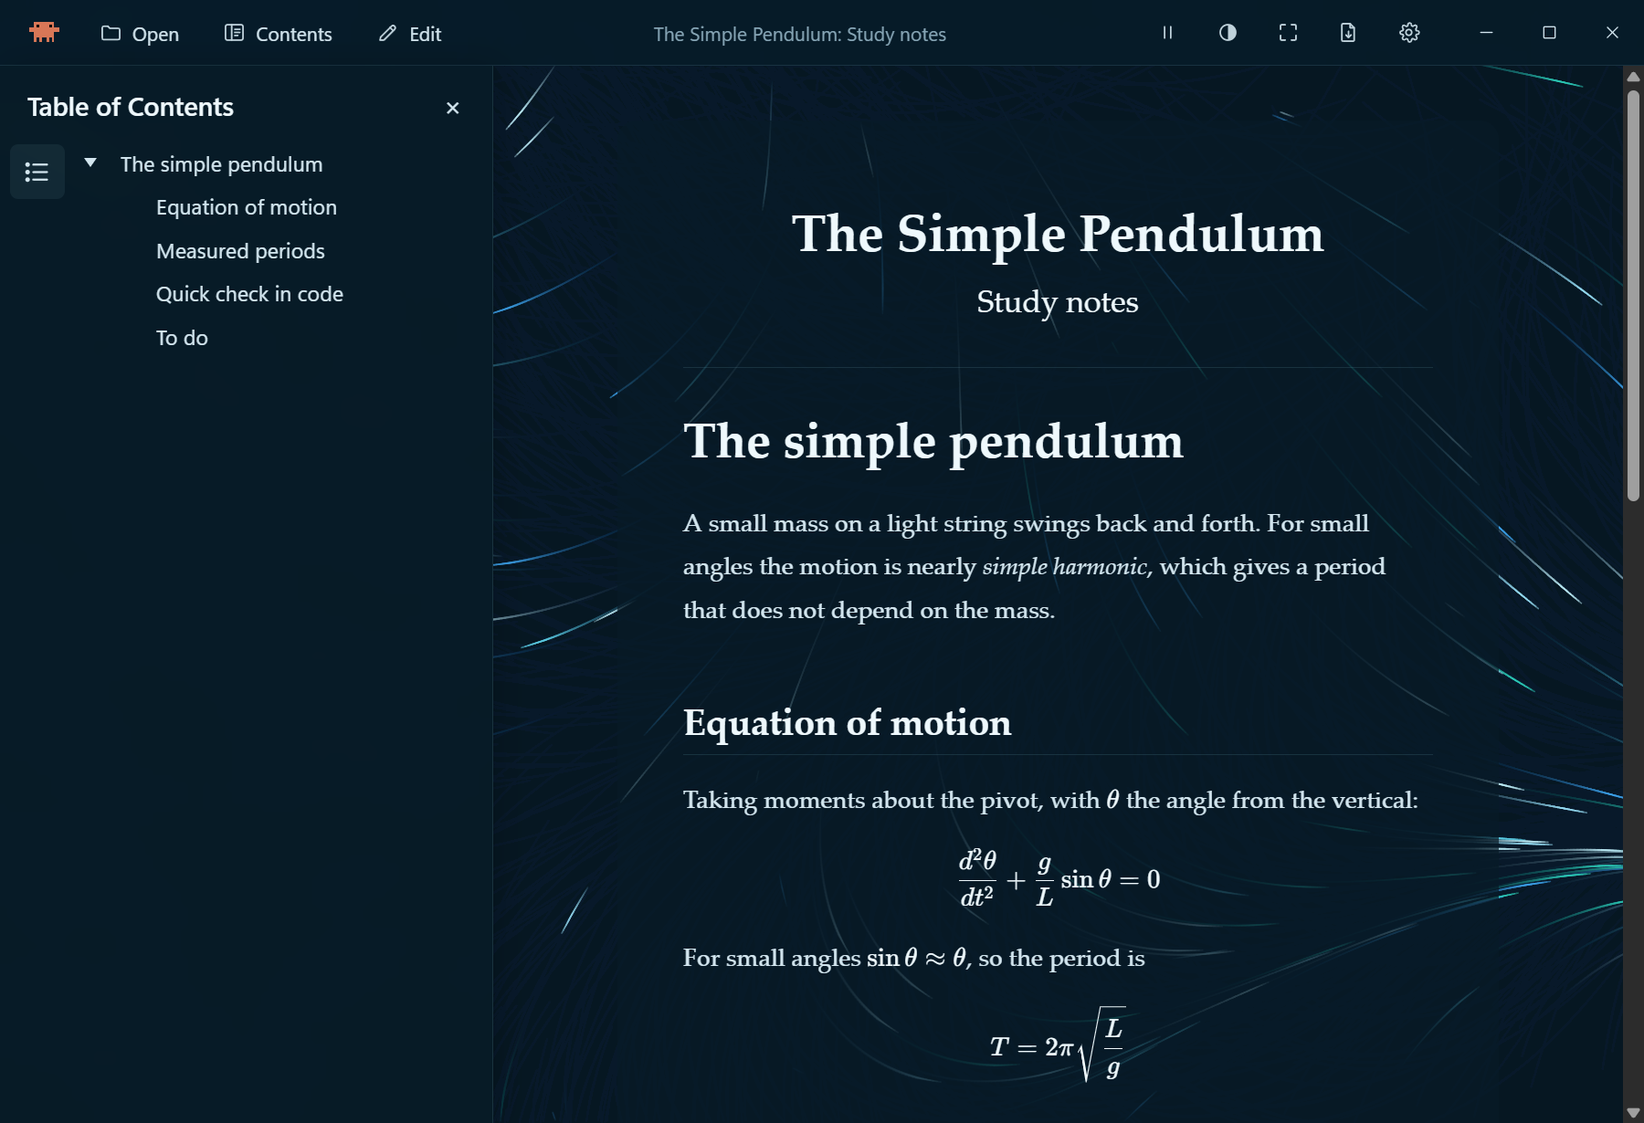
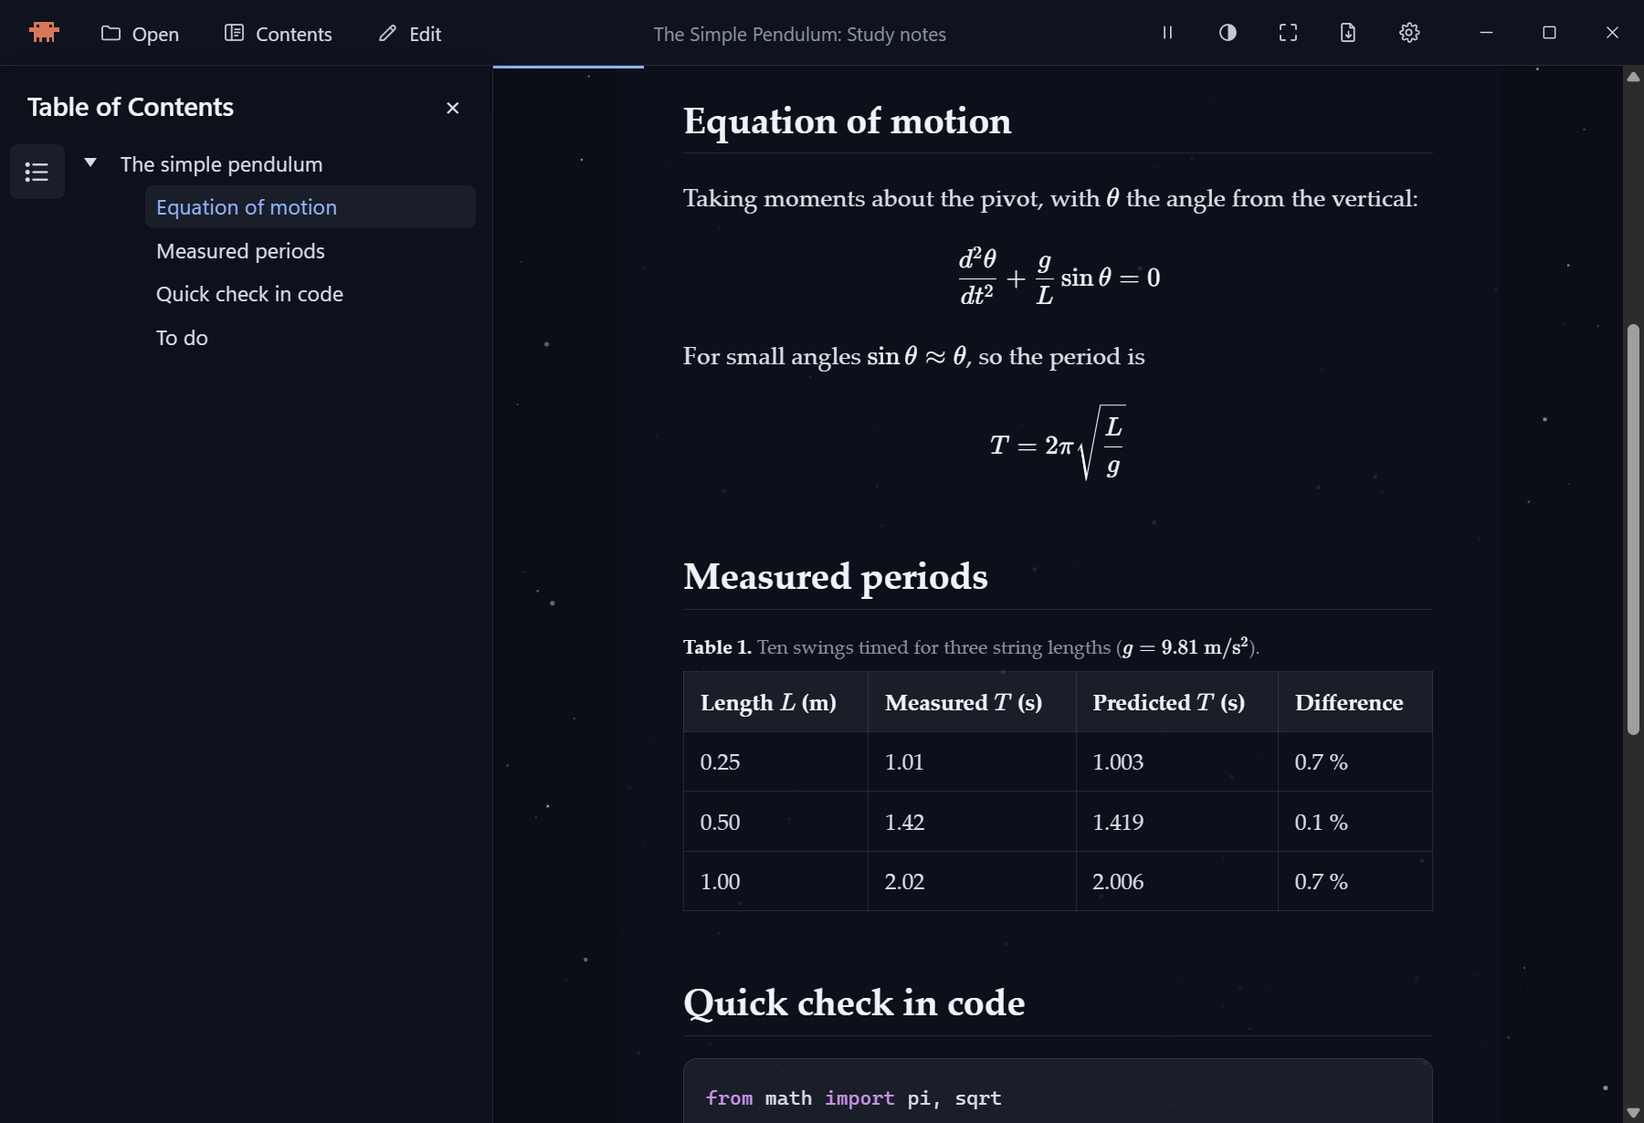
README: product page layout with a screenshot gallery
New screenshots from the 0.5.0 build (paper themes, diagrams, callouts,
contents sidebar, settings); quick links under the title; download table;
theme and Markdown support tables; contributing section and changelog link.

diff --git a/README.md b/README.md
@@ -6,7 +6,8 @@
 
 <p align="center">
   <b>A calm place to read Markdown.</b><br />
-  Your notes on a quiet reading column, with a live wallpaper drifting behind them.
+  A small, offline Windows app for study notes, docs and books written in Markdown,<br />
+  with maths, diagrams, paper-like themes and an optional live wallpaper behind the page.
 </p>
 
 <p align="center">
@@ -15,34 +16,178 @@
 
 <p align="center">
   <a href="https://github.com/Shanu-vs/clawd-reader/releases/latest"><img src="https://img.shields.io/github/v/release/Shanu-vs/clawd-reader?label=version&color=8fb4ff" alt="Latest version" /></a>
+  <a href="https://github.com/Shanu-vs/clawd-reader/releases"><img src="https://img.shields.io/github/downloads/Shanu-vs/clawd-reader/total?color=f0a060" alt="Downloads" /></a>
   <img src="https://img.shields.io/badge/Windows-10%20%7C%2011-0078d4" alt="Windows 10 and 11" />
   <img src="https://img.shields.io/badge/works-offline-6fc58a" alt="Works offline" />
   <a href="LICENSE"><img src="https://img.shields.io/badge/license-MIT-a986ff" alt="MIT licence" /></a>
-  <a href="https://github.com/Shanu-vs/clawd-reader/releases"><img src="https://img.shields.io/github/downloads/Shanu-vs/clawd-reader/total?color=f0a060" alt="Downloads" /></a>
 </p>
 
 <p align="center">
-  <img src="docs/screenshots/starfield.png" width="860" alt="MD Reader showing the welcome page over a starfield" />
+  <a href="#download">Download</a> ·
+  <a href="#a-look-around">Screenshots</a> ·
+  <a href="#features">Features</a> ·
+  <a href="#markdown-support">Markdown support</a> ·
+  <a href="#is-it-safe">Is it safe?</a> ·
+  <a href="#faq">FAQ</a> ·
+  <a href="CHANGELOG.md">Changelog</a> ·
+  <a href="https://github.com/Shanu-vs/clawd-reader/issues/new/choose">Report a bug</a>
+</p>
+
+<p align="center">
+  <img src="docs/screenshots/starfield.png" width="880" alt="MD Reader showing the welcome page over a drifting starfield" />
 </p>
 
 ## Why MD Reader?
 
-- **Made for long reading.** Study notes, documentation, books written in Markdown. Maths, figures, tables and a PDF-style contents sidebar all just work.
-- **Calm to look at.** A starfield, fireflies, slow currents, rain on a pond, or a pixel-art world where **Claw'd** the crab wanders between places. It reacts when you click, and pauses whenever you want.
-- **Tiny and quick.** A small (about 4 MB) installer that opens instantly. It uses the WebView2 already built into Windows instead of shipping a whole browser, so it stays light on memory and battery.
-- **Yours, offline.** No account, no sign-in, no internet needed. Your files stay on your computer.
-- **Easy on the eyes.** 27 themes: calm plain colours, real paper looks (notebook, parchment, graph paper…), warm low-blue-light, true-black OLED and High Contrast.
+- **Made for long reading.** Maths, figures, tables, diagrams and a PDF-style contents sidebar all just work, so study notes and documentation read like a finished book.
+- **Calm to look at.** Choose real paper (notebook, parchment, blueprint…), a plain colour, or a gentle live wallpaper: a starfield, fireflies, slow currents, rain on a pond, or a pixel-art world where **Claw'd** the crab wanders between places.
+- **Small and quick.** A 4 MB installer that opens instantly. It uses the WebView2 engine already built into Windows instead of shipping a whole browser, so it stays light on memory and battery.
+- **Private and offline.** No account, no sign-in, no tracking, no internet needed. Your files stay on your computer.
+- **Easy on the eyes.** 27 themes, including warm low-blue-light, true-black OLED and High Contrast.
 
-## Install
+## A look around
 
-1. **[Download the latest `MD-Reader_…_x64-setup.exe`](https://github.com/Shanu-vs/clawd-reader/releases/latest)** from the Releases page.
-2. Double-click it. If Windows says *"Windows protected your PC"*, click **More info → Run anyway**. (The app isn't code-signed yet; signing certificates cost money, so many small open-source apps show this.)
-3. Click through the setup. No admin rights needed.
-4. Find **MD Reader** in the Start menu or Windows search.
+<table>
+  <tr>
+    <td width="50%"><img src="docs/screenshots/paper-notebook.png" alt="Study notes on the Notebook paper theme, with ruled lines and a red margin" /></td>
+    <td width="50%"><img src="docs/screenshots/paper-parchment.png" alt="A table and equations on the Parchment paper theme" /></td>
+  </tr>
+  <tr>
+    <td align="center"><b>Notebook paper</b>, one of nine paper types</td>
+    <td align="center"><b>Parchment</b> with maths and a captioned table</td>
+  </tr>
+  <tr>
+    <td><img src="docs/screenshots/diagrams-light.png" alt="A flowchart and a sequence diagram drawn from Mermaid code" /></td>
+    <td><img src="docs/screenshots/callouts.png" alt="Note, tip, important, warning and caution callouts" /></td>
+  </tr>
+  <tr>
+    <td align="center"><b>Diagrams</b> from Mermaid code, drawn offline</td>
+    <td align="center"><b>Callouts</b> as in GitHub and Obsidian</td>
+  </tr>
+  <tr>
+    <td><img src="docs/screenshots/study-notes.png" alt="The contents sidebar next to study notes on the Night theme" /></td>
+    <td><img src="docs/screenshots/pixel-world.png" alt="The pixel world wallpaper with Claw'd on a beach" /></td>
+  </tr>
+  <tr>
+    <td align="center"><b>Contents sidebar</b> that follows your place</td>
+    <td align="center"><b>Pixel world</b>, where Claw'd travels between six places</td>
+  </tr>
+  <tr>
+    <td><img src="docs/screenshots/paper-blueprint.png" alt="Code and a table on the Blueprint paper theme" /></td>
+    <td><img src="docs/screenshots/plain-settings.png" alt="The settings panel showing the Plain theme colours" /></td>
+  </tr>
+  <tr>
+    <td align="center"><b>Blueprint</b>, a dark paper theme</td>
+    <td align="center"><b>Settings</b> with the nine Plain colours</td>
+  </tr>
+</table>
+
+## Download
+
+| Platform | Download | Notes |
+| --- | --- | --- |
+| **Windows 10 / 11** (64-bit) | [**MD Reader setup (.exe)**](https://github.com/Shanu-vs/clawd-reader/releases/latest) | 4 MB, installs for your user only, no admin rights |
+| macOS, Linux | Not yet | The app is built with Tauri, so these are possible later |
+
+**Install**
+
+1. Download `MD-Reader_…_x64-setup.exe` from the [latest release](https://github.com/Shanu-vs/clawd-reader/releases/latest).
+2. Run it. If Windows says *"Windows protected your PC"*, choose **More info → Run anyway**. The installer isn't code-signed yet; see [Is it safe?](#is-it-safe).
+3. Click through the setup, then find **MD Reader** in the Start menu or Windows search.
 
 **Open `.md` files with a double-click:** right-click any `.md` file → **Open with → Choose another app → MD Reader**, and tick **Always**.
 
-To uninstall: **Settings → Apps → Installed apps → MD Reader → Uninstall**.
+**Update:** run the newer setup file. It replaces the old version and keeps your settings.
+
+**Uninstall:** **Settings → Apps → Installed apps → MD Reader → Uninstall**.
+
+## Features
+
+### Reading
+- Open files with the **Open** button, a **double-click in Explorer**, by dragging a file onto the window, or paste Markdown with `Ctrl+V`.
+- A **contents sidebar** like a PDF viewer's: collapsible chapters that follow your place, and a Figures tab with thumbnails.
+- **Links between notes**: `[[wiki links]]` and links to other `.md` files open that note; **Alt + ←** goes back.
+- The page **fits the window** (adjustable width), with an optional comfortable line length.
+- Reading time, a progress bar, and your last document and scroll position remembered.
+- **Export to PDF**: clean pages without the wallpaper, each chapter on a new page.
+
+### Editing
+- Documents always open for reading. Press **Edit** and the page becomes its Markdown source.
+- **Save**, **Save as…** and **Stop editing**, with a warning before unsaved changes would be lost.
+- Saving is safe: the app writes to a temporary file first and keeps your file's line endings.
+
+### Themes
+
+| Family | Variations |
+| --- | --- |
+| **Plain**: flat colour, no moving background | White, Sepia, Sage, Rose, Sky, Lavender, Peach, Stone, Charcoal |
+| **Paper**: real paper looks | Notebook, Legal pad, Graph, Dot grid, Parchment, Kraft, Newsprint, Watercolour, Blueprint |
+| **Night**: dark, with a starfield | Indigo, Ocean, Forest, Purple, Ember (low blue light), Graphite, OLED (true black) |
+| **Pixel Quest** | A chunky retro-game look with a pixel font |
+| **High Contrast** | Maximum legibility |
+
+A one-click light/dark switch (`T`) remembers your favourite of each.
+
+### Live wallpapers
+
+Each wallpaper has its own settings and colour palettes (Warm white, Moonlight, Aurora, Deep sea, Sunset, Ember, Lavender, Meadow, or your own colour).
+
+| Wallpaper | Click | Double-click | Press and hold |
+| --- | --- | --- | --- |
+| **Starfield**: drifting, twinkling stars and shooting stars | Ripple | Supernova | Gravity well (let go to slingshot) |
+| **Fireflies**: warm tones, different sizes, slow blinking | Scatter | They all light up | They gather and circle you |
+| **Flowing currents**: slow, soft trails | Swirl | A wide, slow whirlpool | Drag to stir the water |
+| **Rain ripples**: rings spreading on a pond | Splash | A short thunder shower | Rest a finger in the water |
+| **Pixel world**: Claw'd travels through six places | Claw'd hops | Fireworks, and Claw'd waves | Magic dust follows you |
+
+The pixel world visits Green Meadow, Sunny Beach, Snowy Peaks, Desert Canyon, Autumn Woods and Under the Sea. It moves on every 30 minutes (adjustable) with a smooth crossfade, and its sky follows your clock.
+
+### Comfortable to use
+- A **pause button** for the moving background (`W`), and the app follows Windows' "reduce animations" setting.
+- **Focus mode** calms the wallpaper and hides the toolbar until you need it.
+- A frame-rate cap (15–60 fps). The wallpaper pauses when minimised and slows while you scroll.
+- **Right-click** anywhere for a quick menu: theme, wallpaper, text size, page width and more.
+
+## Markdown support
+
+Everything in CommonMark and GitHub Flavored Markdown (tables, task lists, strikethrough, autolinks), plus:
+
+| Format | How to write it |
+| --- | --- |
+| **Maths** (KaTeX) | `$a^2+b^2=c^2$`, `$$ … $$`, numbered `$$[3.5]`, or a ` ```math ` block |
+| **Chemistry** | `$\ce{CO2 + H2O <=> H2CO3}$` |
+| **Diagrams** (Mermaid) | A ` ```mermaid ` block: flowcharts, sequence diagrams, timelines, mind maps, Gantt and pie charts |
+| **Callouts** | `> [!NOTE]`, `[!TIP]`, `[!IMPORTANT]`, `[!WARNING]`, `[!CAUTION]` (and Obsidian's names); add `-` or `+` to make them foldable |
+| **Wiki links** | `[[Note]]`, `[[Note#Heading]]`, `[[Note\|label]]`; `![[picture.png]]` shows a picture |
+| **Footnotes** | `text[^1]` and `[^1]: the note` |
+| **Highlight, sub- and superscript** | `==highlight==`, `H~2~O`, `x^2^` |
+| **Definition lists** | `Term` on one line, `: meaning` on the next |
+| **Emoji** | `:rocket:` → 🚀 |
+| **Front matter** | A `---` block at the top (Obsidian, Jekyll, Hugo) is hidden; its `title:` is used |
+| **Figures** | An image alone in a paragraph becomes a numbered figure; its alt text is the caption, and `{width=70}` sets the size |
+| **Table captions** | A `Table: …` line just above a table |
+| **Title block** | `% title:`, `% subtitle:` and `% author:` lines at the top |
+| **Page breaks** | `\newpage` on its own line (for PDF export) |
+
+Pictures next to your file load straight from disk. Code blocks are syntax-highlighted.
+
+**Try it:** download [`docs/formats.md`](docs/formats.md) (a tour of every format) or [`docs/sample.md`](docs/sample.md) (short study notes) and open them in the app.
+
+## Keyboard shortcuts
+
+| Key | Action |
+| --- | --- |
+| `O` / `Ctrl+O` | Open a file |
+| `E` | Edit the document |
+| `Ctrl+S` / `Ctrl+Shift+S` | Save / Save as (while editing) |
+| `Esc` | Stop editing, or close panels |
+| `C` | Contents sidebar |
+| `S` / `Ctrl+,` | Settings |
+| `T` | Switch light / dark |
+| `F` | Focus mode |
+| `W` | Pause or play the background |
+| `P` / `Ctrl+P` | Export to PDF |
+| `Alt+←` | Back to the previous note |
 
 ## Is it safe?
 
@@ -61,97 +206,17 @@ That blue *"Windows protected your PC"* screen is fair to worry about, so here i
 - It has no account, no ads, no analytics and no auto-updater. The app is locked so it **can't send data anywhere** (its content security policy blocks all network requests). The only things it may download are pictures that your own document links to on the web.
 - It installs just for your user, with no admin rights, and the uninstaller removes it. Tick *"Delete the application data"* there to remove your settings too.
 
-## Screenshots
-
-| Pixel world (Pixel Quest theme) | Study notes with the contents panel |
-| --- | --- |
-| <img src="docs/screenshots/pixel-world.png" alt="Pixel world wallpaper with Claw'd on a beach" /> | <img src="docs/screenshots/study-notes.png" alt="Study notes with maths and the contents sidebar" /> |
-
-| Light theme with settings docked |
-| --- |
-| <img src="docs/screenshots/light-settings.png" width="640" alt="Plain Sage theme with the settings panel docked on the right" /> |
-
-## Features
-
-### Reading
-- Open with the **Open** button, a **double-click in Explorer**, drag a file onto the window, or paste Markdown with `Ctrl+V`.
-- **Maths** with KaTeX: `$inline$` and `$$ display $$` equations, with optional numbers like `$$[3.5]`.
-- **Numbered figures** from images that sit alone in a paragraph. The alt text becomes the caption, and `{width=70}` sets the size. Pictures next to the file load straight from disk.
-- **Table captions** with a `Table: …` line above a table, plus a **title block** from `% title:` / `% subtitle:` lines.
-- Syntax-highlighted code, task lists, block quotes, reading time and a progress bar.
-- **Diagrams** with Mermaid: flowcharts, sequence diagrams, timelines, mind maps, Gantt and pie charts. They follow your light or dark theme and work offline.
-- **Callouts** like GitHub and Obsidian: `> [!NOTE]`, `[!TIP]`, `[!IMPORTANT]`, `[!WARNING]`, `[!CAUTION]`, foldable with `+` / `-`.
-- **Footnotes**, ==highlights== (`==text==`), H~2~O-style subscripts and x^2^ superscripts, definition lists and `:emoji:` codes.
-- **Chemistry** with `$\ce{H2O}$`, and GitHub-style ` ```math ` blocks.
-- **Front matter** (the `---` block at the top of Obsidian, Jekyll and Hugo notes) is hidden, and its title is used.
-- **Wiki links**: `[[Other note]]`, `[[Note#Heading]]` and links to other `.md` files open that note; **Alt + ←** goes back. `![[picture.png]]` shows a picture.
-- **Contents panel** like a PDF viewer's sidebar: collapsible chapters that follow your place, and a Figures tab with thumbnails.
-- The page **fits the window** (adjustable width), with an optional comfortable line length.
-- Your last document and scroll position are remembered.
-
-### Editing
-- Documents always open for reading. Press **Edit** and the page becomes its Markdown source.
-- The button becomes **Save**, and its ▾ menu has **Save as…** and **Stop editing**.
-- Saving is safe: it writes to a temporary file first and keeps your file's line endings.
-- The app warns you before unsaved changes would be lost.
-
-### Themes
-- **Plain**: calm flat colours with no moving background, in White, Sepia, Sage, Rose, Sky, Lavender, Peach, Stone and Charcoal.
-- **Paper**: real paper looks, in Notebook (ruled with a red margin), Legal pad, Graph, Dot grid, Parchment, Kraft, Newsprint, Watercolour and Blueprint.
-- **Night**, in Indigo, Ocean, Forest, Purple, Ember (warm, low blue light), Graphite and **OLED** (true black, easy on battery and eyes at night).
-- **Pixel Quest**: a chunky retro-game look with a pixel font.
-- **High Contrast**.
-- A one-click light/dark switch remembers your favourite of each.
-
-### Live wallpapers
-Each one has its own settings and colour palettes (Warm white, Moonlight, Aurora, Deep sea, Sunset, Ember, Lavender, Meadow, or your own colour).
-
-| Wallpaper | Click | Double-click | Press and hold |
-| --- | --- | --- | --- |
-| **Starfield**: drifting, twinkling stars and shooting stars | Ripple | Supernova | Gravity well (let go to slingshot) |
-| **Fireflies**: warm tones, different sizes, slow blinking | Scatter | They all light up | They gather and circle you |
-| **Flowing currents**: slow, soft trails | Swirl | A wide, slow whirlpool | Drag to stir the water |
-| **Rain ripples**: rings spreading on a pond | Splash | A short thunder shower | Rest a finger in the water |
-| **Pixel world**: Claw'd travels through six places | Claw'd hops | Fireworks, and Claw'd waves | Magic dust follows you |
-
-The pixel world has six places: Green Meadow, Sunny Beach, Snowy Peaks, Desert Canyon, Autumn Woods and Under the Sea. It moves on every 30 minutes (adjustable) with a smooth crossfade, and the sky follows your clock.
-
-### Comfortable to use
-- A **pause button** for the moving background (`W`). The app also follows Windows' "reduce animations" setting.
-- **Focus mode** calms the wallpaper and hides the toolbar until you need it.
-- A frame-rate cap (15–60 fps). The wallpaper pauses when minimised and slows while you scroll.
-- **Right-click** anywhere for a quick menu: theme, wallpaper, text size, page width and more.
-- The toolbar is the window's title bar, with Windows-style controls.
-- **Export to PDF**: clean pages without the wallpaper, each chapter on a new page.
-
-## Keyboard shortcuts
-
-| Key | Action |
-| --- | --- |
-| `O` / `Ctrl+O` | Open a file |
-| `E` | Edit the document |
-| `Ctrl+S` / `Ctrl+Shift+S` | Save / Save as (while editing) |
-| `Esc` | Stop editing, or close panels |
-| `C` | Contents panel |
-| `S` / `Ctrl+,` | Settings |
-| `T` | Switch light / dark |
-| `F` | Focus mode |
-| `W` | Pause or play the background |
-| `P` / `Ctrl+P` | Export to PDF |
-
-## Try the sample
-
-[`docs/sample.md`](docs/sample.md) is a short set of study notes that shows off maths, a captioned table, code and a task list. [`docs/formats.md`](docs/formats.md) is a tour of every format above: diagrams, callouts, footnotes, chemistry and more. Download them and open them in the app.
-
 ## FAQ
 
 **Is it free?** Yes, and open source under the [MIT licence](LICENSE).
 
 **Mac or Linux?** Windows 10 and 11 only for now.
 
-**Why does Windows warn me when installing?** The installer isn't code-signed, so SmartScreen doesn't recognise it yet. See [Is it safe?](#is-it-safe) for the virus scan and how to check the file.
-
 **Does it need the internet?** No. It only loads pictures from the web if your document links to them.
+
+**Can I edit notes, or only read them?** Both. Notes open for reading; press **Edit** to change the Markdown and **Save** when you're done.
+
+**Does it work with my Obsidian vault?** Yes for reading: callouts, wiki links, picture embeds and front matter all work. Wiki links look for the note in the same folder as the open note (or the path you write, like `[[folder/Note]]`).
 
 **Windows 10 says something about WebView2.** Windows 11 already has it. On an older Windows 10, the installer downloads it for you.
 
@@ -159,12 +224,16 @@ The pixel world has six places: Green Meadow, Sunny Beach, Snowy Peaks, Desert C
 
 - [x] Open `.md` files by double-clicking them in Explorer
 - [x] Ready-made installer on the Releases page
+- [x] Diagrams, callouts, footnotes and wiki links
+- [ ] Diagram colours that match each theme
 - [ ] Reload automatically when the file changes on disk
 - [ ] Recent files
 - [ ] Find in document (`Ctrl+F`)
 - [ ] Gentle ambient sounds to match each wallpaper
 
-Ideas and bug reports are welcome in [Issues](https://github.com/Shanu-vs/clawd-reader/issues).
+## Contributing
+
+Bug reports and ideas are very welcome. Please use the [issue forms](https://github.com/Shanu-vs/clawd-reader/issues/new/choose); a screenshot and the Markdown that caused a problem help a lot. Pull requests are welcome too: for anything bigger than a small fix, open an issue first so we can agree on the approach. Changes between versions are listed in the [changelog](CHANGELOG.md).
 
 ## For developers
 
@@ -209,11 +278,12 @@ The setup file appears in `src-tauri/target/release/bundle/nsis/`.
 
 ```
 src/
-  main.ts                 app wiring: documents, toolbar, shortcuts, drag & drop, window
-  markdown.ts             Markdown -> safe HTML: maths, figures, captions, task lists
+  main.ts                 app wiring: documents, toolbar, shortcuts, links between notes, window
+  markdown.ts             Markdown -> safe HTML: maths, figures, callouts, wiki links, front matter
+  diagrams.ts             Mermaid diagrams, loaded only when a document has one
   desktop.ts              desktop-only helpers: open/save dialogs, reading and writing files
   settings.ts             typed settings with defaults, saved locally
-  themes.ts               theme families and their colour variations
+  themes.ts               theme families, colour variations and paper textures
   ui/
     editor.ts             edit mode, Save / Save as
     contents.ts           contents sidebar (chapters and figures)
@@ -229,7 +299,7 @@ src/
     pixel/                the pixel world: places, scenery, weather and Claw'd
   styles/                 app, Markdown and print (PDF) styles
 src-tauri/                desktop wrapper (Rust): file access, window, installer
-docs/                     sample document and screenshots
+docs/                     sample notes, formats tour and screenshots
 ```
 
 </details>
@@ -242,4 +312,4 @@ docs/                     sample document and screenshots
 
 Claw'd, the Claude crab, is Anthropic's character. This is an unofficial, fan-made project and is not affiliated with or endorsed by Anthropic.
 
-Built with [Tauri](https://tauri.app), [Vite](https://vite.dev), [markdown-it](https://github.com/markdown-it/markdown-it), [KaTeX](https://katex.org), [highlight.js](https://highlightjs.org), [DOMPurify](https://github.com/cure53/DOMPurify) and [Pixelify Sans](https://fonts.google.com/specimen/Pixelify+Sans). The settings icon is adapted from [Feather Icons](https://feathericons.com) (MIT).
+Built with [Tauri](https://tauri.app), [Vite](https://vite.dev), [markdown-it](https://github.com/markdown-it/markdown-it) and its plugins, [KaTeX](https://katex.org), [Mermaid](https://mermaid.js.org), [highlight.js](https://highlightjs.org), [DOMPurify](https://github.com/cure53/DOMPurify) and [Pixelify Sans](https://fonts.google.com/specimen/Pixelify+Sans). The settings icon is adapted from [Feather Icons](https://feathericons.com) (MIT).
